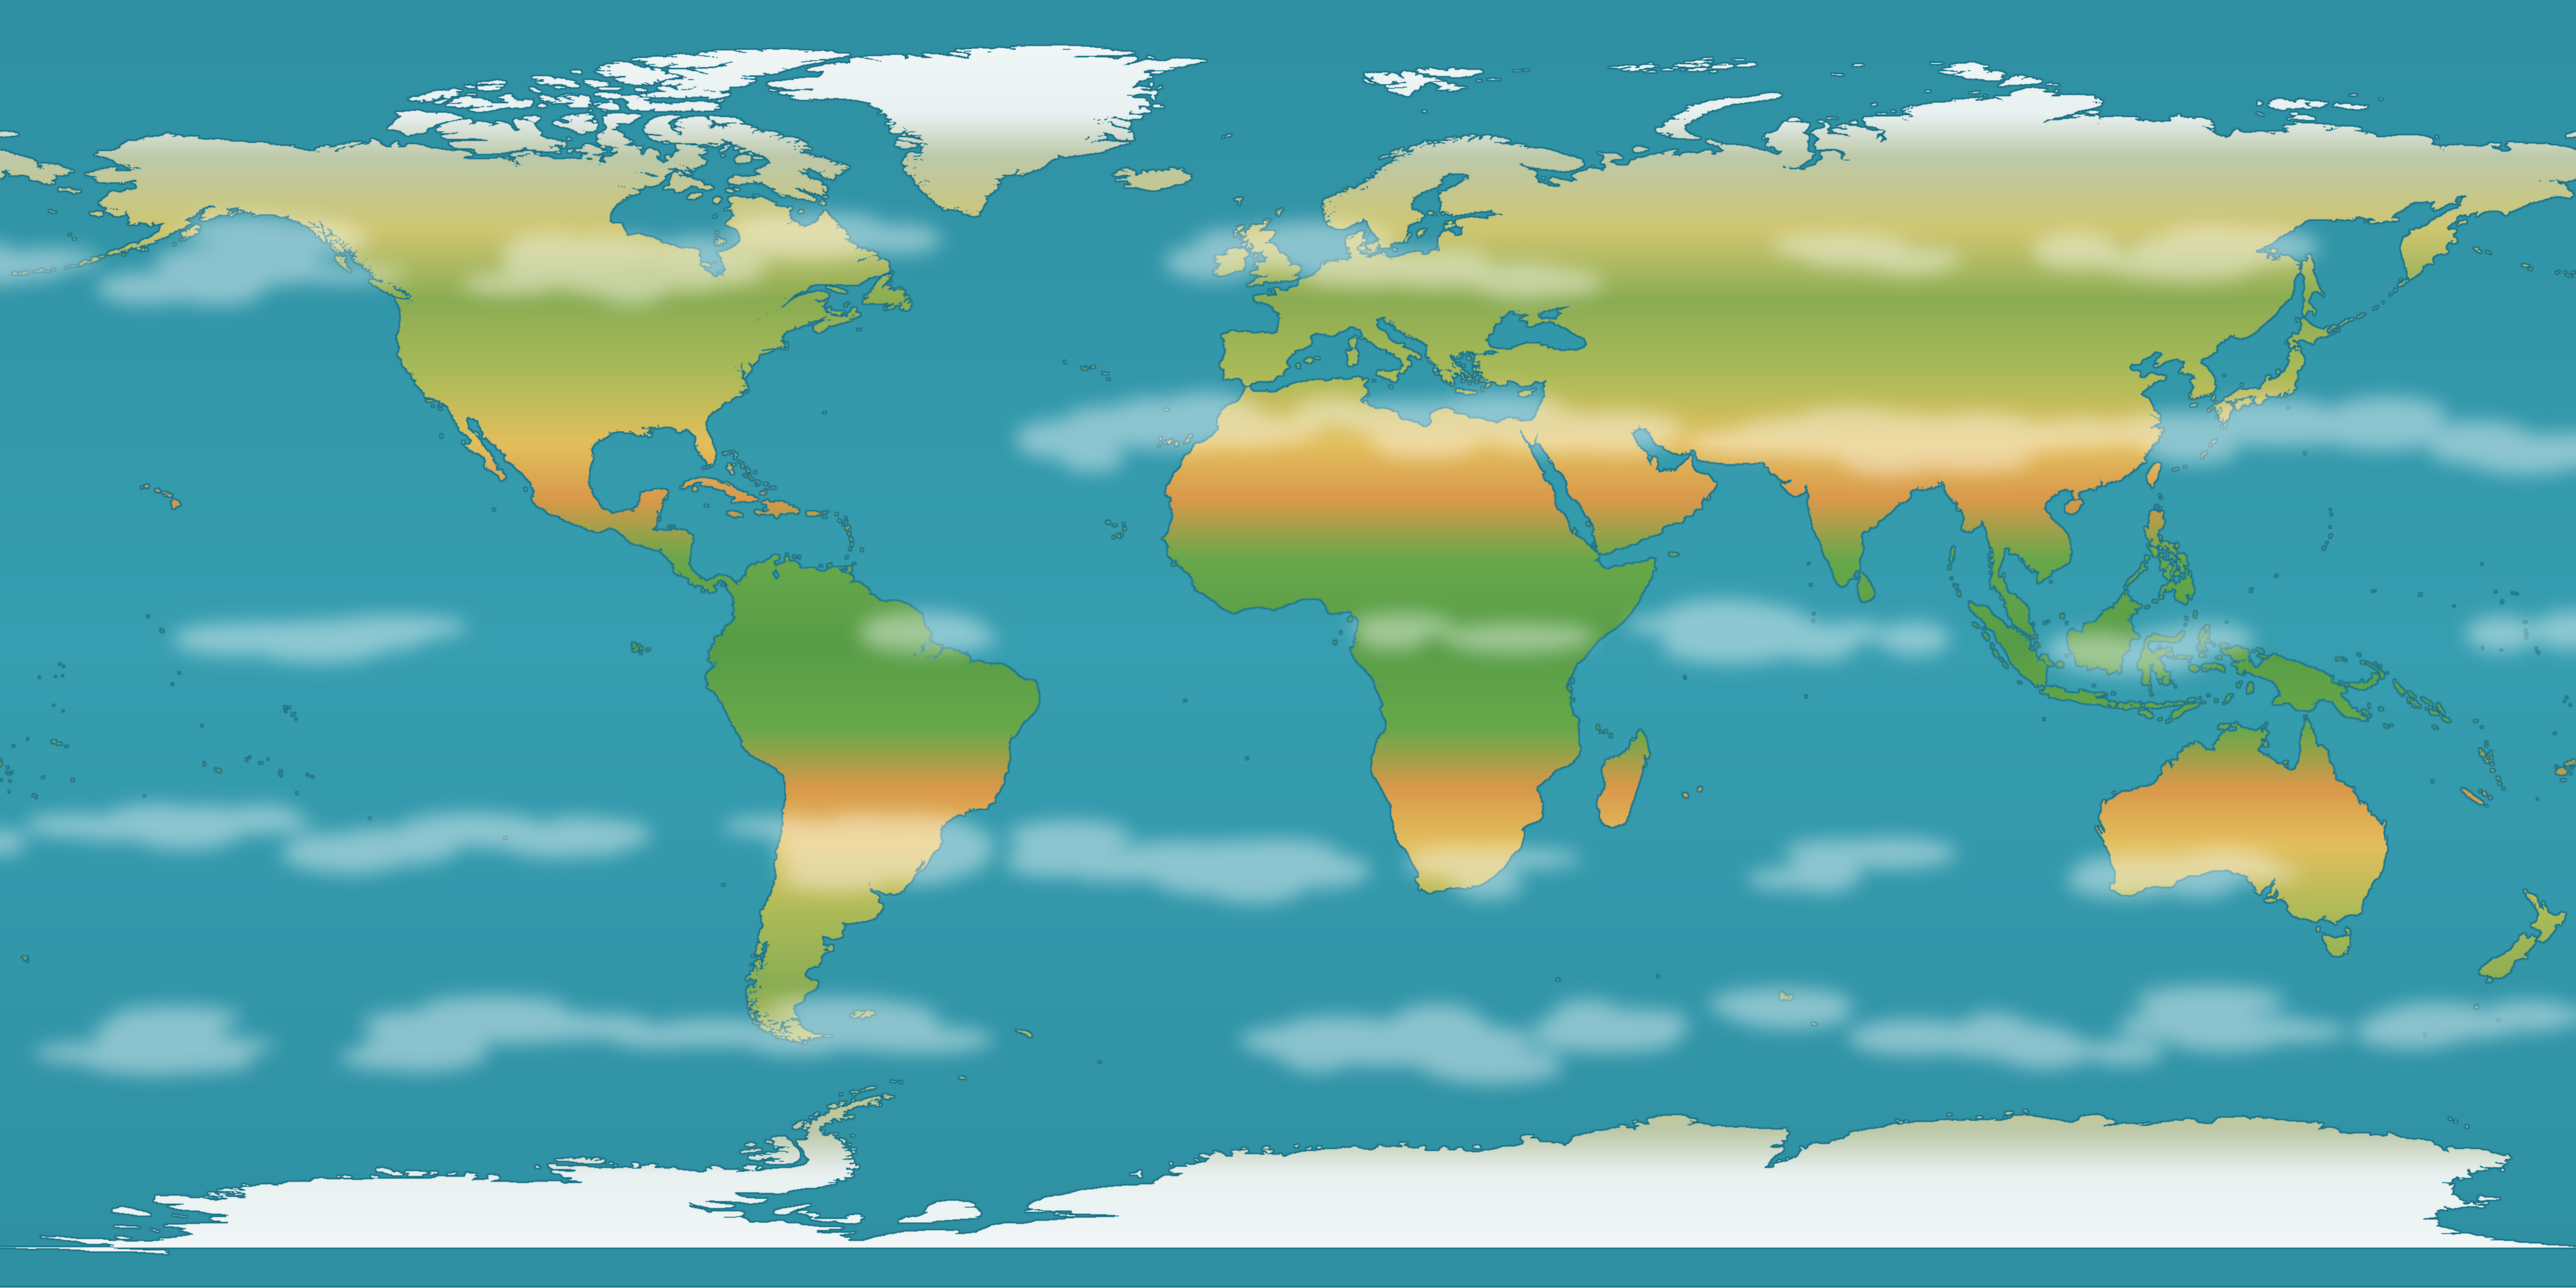
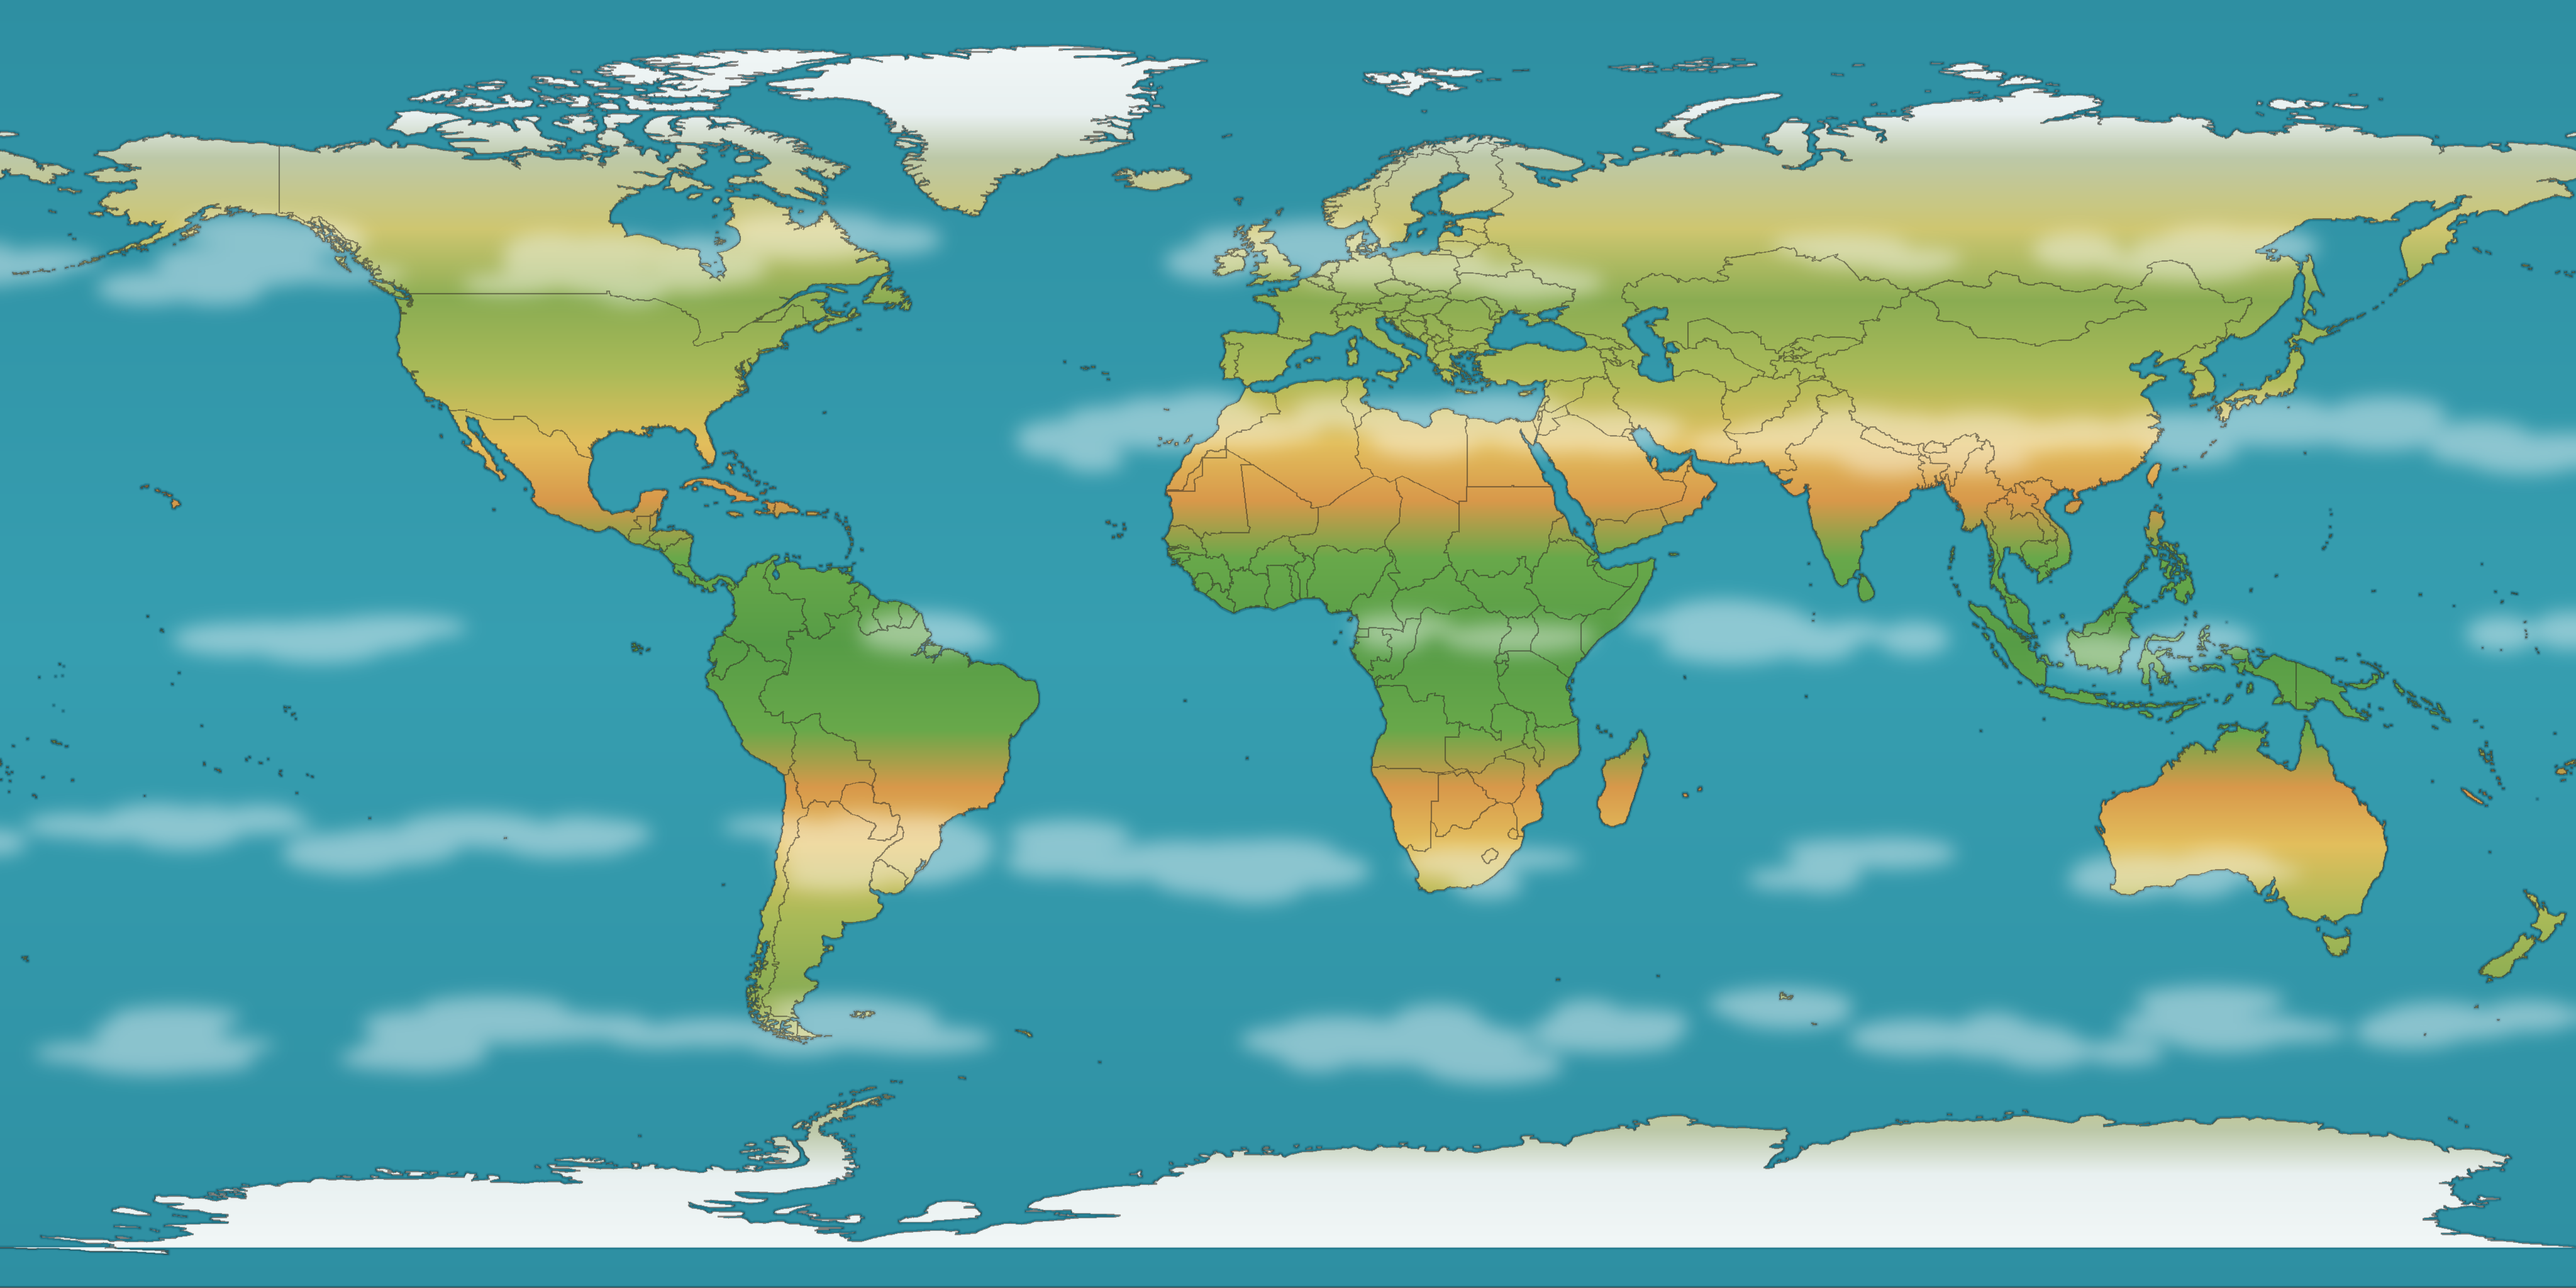
feat(globe): draw country borders into the Earth texture
Adds political borders to the illustrated globe, baked into the texture rather
than drawn as runtime Cesium polygon outlines. GPU polygon outlines are 1px,
driver-dependent, and unreliable — and we just hit an ANGLE/Metal shader crash,
so adding more runtime rendering was the wrong direction. Baked borders render
identically on every GPU at zero runtime cost.

Switches the generator from land-50m to countries-50m so the land mask and the
border network share geometry (borders drawn from a different dataset than the
mask drift off the coastline). Borders come from drawing every TopoJSON arc
exactly once — a shared border is one arc referenced by both neighbours, a
coastline is one arc referenced by one country — so the full network is drawn
with nothing doubled. Rendered at ~55% opacity in a muted dark ink, after the
clouds so they are not buried.

diff --git a/scripts/gen-earth-texture.py b/scripts/gen-earth-texture.py
@@ -13,6 +13,7 @@ W, H = 4096, 2048
 OCEAN = (54, 158, 176)
 OCEAN_DEEP = (38, 128, 148)
 SHORE = (30, 112, 132)
+BORDER = (46, 40, 34)
 
 # abs(latitude) -> land colour. Real biome banding is also what reads as
 # "cartoon Earth": tropical greens, desert belt, temperate greens, boreal
@@ -77,6 +78,30 @@ def load_rings(path, obj):
     return rings
 
 
+def load_arcs(path):
+    """Decode every arc once — the complete boundary network.
+
+    In TopoJSON a border shared by two countries is a single arc referenced by
+    both, and a coastline is an arc referenced by one. Decoding each arc in the
+    arcs array exactly once therefore yields all coastlines and all internal
+    borders with nothing drawn twice.
+    """
+    t = json.load(open(path))
+    tr = t["transform"]
+    sx, sy = tr["scale"]
+    tx, ty = tr["translate"]
+    out = []
+    for arc in t["arcs"]:
+        x = y = 0
+        pts = []
+        for dx, dy in arc:
+            x += dx
+            y += dy
+            pts.append((x * sx + tx, y * sy + ty))
+        out.append(pts)
+    return out
+
+
 def unwrap(ring):
     """Make longitudes continuous.
 
@@ -119,8 +144,11 @@ def vertical_ramp(fn):
 
 
 def main():
-    rings = load_rings("land50.json", "land")
-    print(f"land rings: {len(rings)}")
+    # countries-50m (not land-50m) so the land mask and the border network are
+    # the same geometry — otherwise borders drawn from one dataset drift off the
+    # coastline of a mask built from the other.
+    rings = load_rings("countries50.json", "countries")
+    print(f"country rings: {len(rings)}")
 
     mask = build_mask(rings)
 
@@ -157,6 +185,27 @@ def main():
             cd.ellipse([cx + ox - rx, cy + oy - ry, cx + ox + rx, cy + oy + ry], fill=110)
     clouds = clouds.filter(ImageFilter.GaussianBlur(14))
     earth = Image.composite(Image.new("RGB", (W, H), (255, 255, 255)), earth, clouds)
+
+    # Country borders. Every arc drawn once = all coastlines + internal borders,
+    # with shared borders never doubled. Drawn last so clouds do not bury them.
+    arcs = load_arcs("countries50.json")
+    print(f"boundary arcs: {len(arcs)}")
+    ink = Image.new("L", (W, H), 0)
+    bd = ImageDraw.Draw(ink)
+    for arc in arcs:
+        if len(arc) < 2:
+            continue
+        u = unwrap(arc)
+        pts = [((lon + 180.0) / 360.0 * W, (90.0 - lat) / 180.0 * H) for lon, lat in u]
+        for dx in (-W, 0, W):
+            bd.line([(x + dx, y) for x, y in pts], fill=255, width=2, joint="curve")
+    ink = ink.filter(ImageFilter.GaussianBlur(0.4))
+    # Subtle dark line: composite the border colour at ~55% where ink is opaque.
+    earth = Image.composite(
+        Image.new("RGB", (W, H), BORDER),
+        earth,
+        ink.point(lambda v: int(v * 0.55)),
+    )
 
     out = "earth-cartoon.png"
     earth.save(out, optimize=True)
